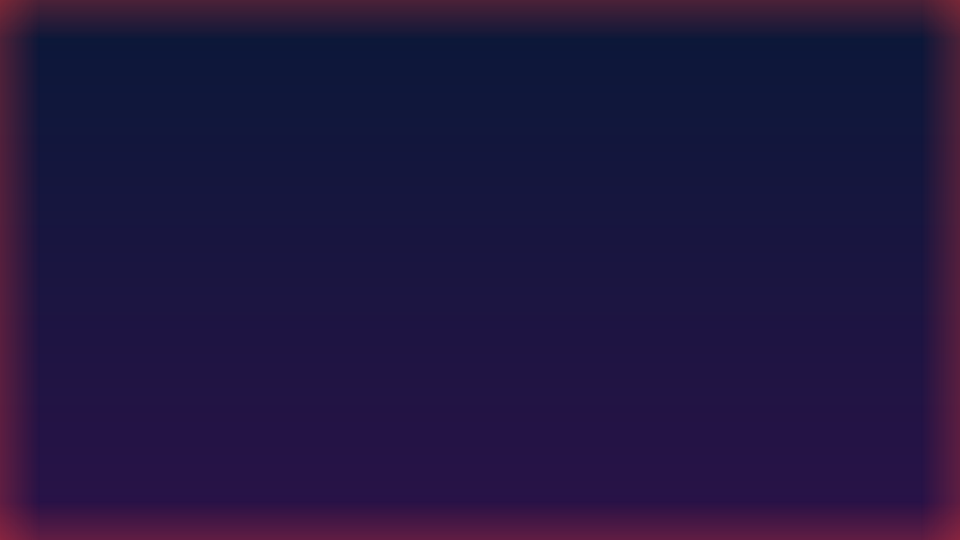
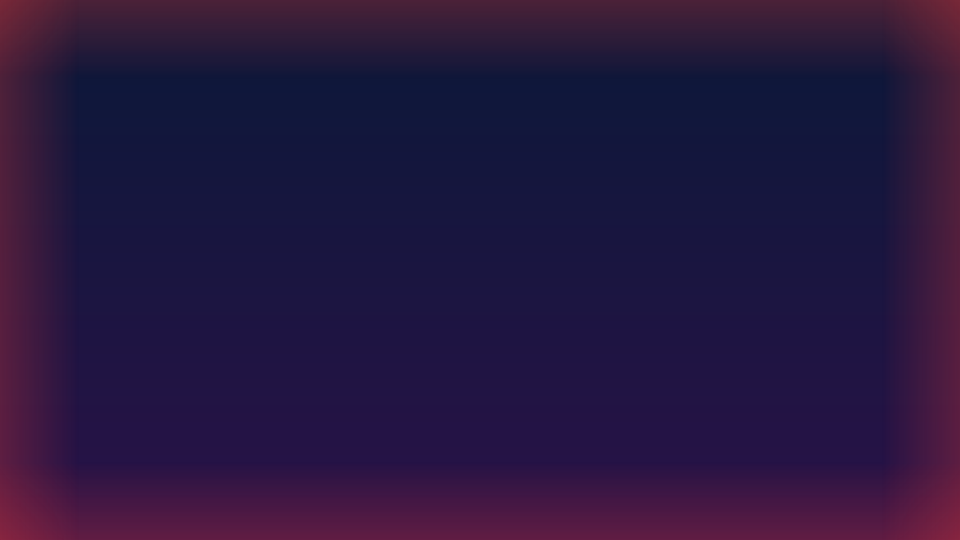
feat: 暂停态移除灰色边框并加倍默认最大边缘厚度
- 暂停态不再绘制灰色边缘光晕：EdgeOverlayPixelRenderer 对 Paused 状态返回 default（等同 Hidden），灰色弱视觉反而突兀，不如不画

- 默认最大边缘厚度 80px -> 160px：让强提醒（工作硬性 / 休息超时）视觉冲击更明显；Sanitize 范围 12~600 不变

- DemoRenderer 演示图默认 thickness 40 -> 80（保持实机一半比例）

- 同步更新 design.md / USER_GUIDE.md / CHANGELOG.md 描述

- 重新生成 960x540 演示图（thickness=80）

- 从 git 跟踪移除 README 不引用的 5 张图（上次遗漏）

Changed region(s): [[0.0, 0.0, 1.0, 1.0]]

diff --git a/ElasticBreath.DemoRenderer/Program.cs b/ElasticBreath.DemoRenderer/Program.cs
@@ -19,10 +19,10 @@ namespace ElasticBreath.DemoRenderer;
 internal static class Program
 {
     // 演示图尺寸：960x540（1920x1080 的 1/4 面积）。纯色合成壁纸无需原始大尺寸演示，
-    // 缩小后 README 加载更快、仓库体积更小，且光晕视觉比例与实机一致（thickness 同步减半）。
+    // 缩小后 README 加载更快、仓库体积更小。thickness 为实机默认（160）的一半，保持视觉比例。
     private const int Width = 960;
     private const int Height = 540;
-    private const int DefaultGlowThickness = 40;
+    private const int DefaultGlowThickness = 80;
     private const double BaseOpacity = 0.3;
 
     private static void Main(string[] args)
@@ -234,7 +234,7 @@ internal static class Program
         参数:
           --bg, --background <路径>   自定义背景图（jpg/png/bmp 等）。未指定时用合成渐变壁纸。
           --out, --output <目录>      输出目录。默认 docs/screenshots/。
-          --thickness, --thick <像素> 光晕渐变厚度（像素），默认 40。960x540 下与实机视觉比例一致。
+          --thickness, --thick <像素> 光晕渐变厚度（像素），默认 80。960x540 下为实机默认（160）的一半。
           -h, --help                  显示本帮助。
 
         示例:
@@ -247,8 +247,8 @@ internal static class Program
           # 指定输出目录
           dotnet run --project ElasticBreath.DemoRenderer -c Release -- --bg bg.jpg --out D:\out
 
-          # 复现 1920x1080 实机厚度（演示图默认 40 是按 960x540 比例减半）
-          dotnet run --project ElasticBreath.DemoRenderer -c Release -- --thickness 80
+          # 复现 1920x1080 实机厚度（演示图默认 80 是按 960x540 比例减半）
+          dotnet run --project ElasticBreath.DemoRenderer -c Release -- --thickness 160
 
         输出:
           state-<状态><后缀>.png          6 种状态截图（960x540）

diff --git a/ElasticBreath.Rendering/EdgeOverlayPixelRenderer.cs b/ElasticBreath.Rendering/EdgeOverlayPixelRenderer.cs
@@ -17,7 +17,7 @@ public enum EdgeOverlayState
     RestElastic,
     // 休息超时状态（亮绿 + 闪烁）
     RestOvertime,
-    // 暂停状态（灰色）
+    // 暂停状态（无视觉，等同隐藏：灰色边框反而显得突兀，不如不画）
     Paused
 }
 
@@ -55,7 +55,7 @@ public static class EdgeOverlayPixelRenderer
             EdgeOverlayState.RestBase => new EdgeOverlayVisual(67, 183, 108, 1.0, 3.0, false),
             EdgeOverlayState.RestElastic => new EdgeOverlayVisual(47, 206, 103, 1.1, 1.8, false),
             EdgeOverlayState.RestOvertime => new EdgeOverlayVisual(47, 206, 103, 1.1, 1.0, true),
-            EdgeOverlayState.Paused => new EdgeOverlayVisual(102, 102, 102, 0.75, 0.0, false),
+            EdgeOverlayState.Paused => default, // 暂停态不绘制边框，与 Hidden 一致
             _ => default
         };
     }

diff --git a/ElasticBreath.App/Domain/ElasticBreathSettings.cs b/ElasticBreath.App/Domain/ElasticBreathSettings.cs
@@ -88,8 +88,8 @@ public sealed class ElasticBreathSettings
     public bool EnableEdgeGlow { get; set; } = true;
     // 是否启用角落悬停功能，默认为true
     public bool EnableCornerHover { get; set; } = true;
-    // 发光最大厚度像素，默认80像素
-    public int GlowMaxThicknessPixels { get; set; } = 80;
+    // 发光最大厚度像素，默认160像素
+    public int GlowMaxThicknessPixels { get; set; } = 160;
     // 覆盖层不透明度，默认0.35
     public double OverlayOpacity { get; set; } = 0.35;
     // 全屏隐藏模式

diff --git a/USER_GUIDE.md b/USER_GUIDE.md
@@ -60,7 +60,7 @@ dotnet run --project ElasticBreath.App/ElasticBreath.App.csproj
 | **空闲 Idle** | 未进入工作周期 | 圆环静止，边缘无光晕；检测到你持续操作后会弹出“即将开始工作”通知 |
 | **工作 Working** | 工作计时进行中 | 圆环转动并随时间变色；超过阈值后边缘出现光晕 |
 | **休息 Resting** | 休息计时进行中 | 边缘变为清新绿色光晕；超时后绿色变亮并开始闪烁 |
-| **暂停 Paused** | 因离开检测中断 | 若之前有光晕，则冻结为暗灰色静止状态；检测到你回来会弹出恢复通知 |
+| **暂停 Paused** | 因离开检测中断 | 边缘无光晕（与空闲态一致）；检测到你回来会弹出恢复通知 |
 
 ### 压力等级
 
@@ -117,10 +117,9 @@ dotnet run --project ElasticBreath.App/ElasticBreath.App.csproj
 | **暗橙** | 工作预警区 | 该考虑休息了，弹性窗口已打开 |
 | **警示红** | 工作硬性区 | 强烈建议立即休息（仍不强制） |
 | **清新绿** | 休息中 | 正在恢复，安心休息 |
-| **暗灰** | 暂停态 | 已冻结，等待你回来 |
 | **顶部进度条** | 工作中（可选） | 10px 高细条，颜色随工作剩余时间从绿渐变红 |
 
-- **超时增长**：休息进入超时区后，绿色光晕的边缘渗透宽度会**逐步增长**，直到达到你设置的最大渗透宽度上限（默认 80px），防遮挡滚动条。
+- **超时增长**：休息进入超时区后，绿色光晕的边缘渗透宽度会**逐步增长**，直到达到你设置的最大渗透宽度上限（默认 160px）。
 - **呼吸节奏**：预警态约 3 秒一次缓慢呼吸；硬性态约 1 秒一次（不伴随刺耳声音，防癫痫）。
 - **可独立开关**：顶部进度条、边缘光晕、角落悬停均可单独开关。全部关闭后仅依赖主窗口感知状态。
 

diff --git a/design.md b/design.md
@@ -30,7 +30,7 @@
    └─(无操作空闲 ≥ 离开判定阈值) ─→ [暂停 Paused]
 [暂停 Paused]
    │
-   ├─(视觉表现) ─→ 若之前有边缘光晕，则冻结为暗灰色静止状态。
+   ├─(视觉表现) ─→ 无边缘光晕（与隐藏态一致）。
    │
    ├─(检测到输入) ─→ 弹出恢复提示通知（5秒倒计时）
    │   ├─(5秒内无处理) ─→ [专注计时 Working] (接续之前的时间)
@@ -66,11 +66,11 @@
 * **选项A：顶部细长进度条**
   * 屏幕顶部中央，10px高。颜色随工作剩余时间从绿渐变红。鼠标悬停显示具体时间。
 * **选项B：边缘呼吸光晕**
-  * 屏幕四周边缘向内渐变的光晕。最大渗透宽度不超过80像素（防遮挡滚动条）。
+  * 屏幕四周边缘向内渐变的光晕。最大渗透宽度不超过160像素。
   * **预警态**：暗橙缓慢过渡至亮橙，3秒一次呼吸明暗变化。
   * **硬性态**：警示红，1秒一次呼吸（防癫痫，不伴随刺耳声音）。
   * **休息态**：清新绿色。
-  * **暂停态**：暗灰色绝对静止。
+  * **暂停态**：无视觉表现。
 ### 5.3 交互方式（如何触发状态切换）
 * **方式一：主窗口按钮**（适用于多屏模式或将主窗口置于一侧时）。
 * **方式二：左上角悬停触发**（适用于单屏极简模式）。在存在光晕或进度条期间，鼠标移至屏幕左上角停留1.5秒，浮现半透明实心圆（圆心在左上角、用户可见右下角四分之一，半径最大20px，出现/收回带弹性），悬停期间由灰渐变为主题绿，变绿瞬间静默切入下一状态，无需点击；切换后圆保持绿色，移开鼠标后收回。仅左上角参与触发——右上角邻近关闭按钮、右下角为"显示桌面"热区、左下角可能是开始菜单。

diff --git a/CHANGELOG.md b/CHANGELOG.md
@@ -27,6 +27,8 @@
 ### Changed
 
 - 抽取边缘覆盖层像素渲染逻辑到独立项目 `ElasticBreath.Rendering`(`EdgeOverlayPixelRenderer`):主应用 Layered Window 与离线截图工具共用同一份渲染代码,保证实机与截图像素级一致;`EdgeOverlayWindow.xaml.cs` 改为委托调用,删除原内联的 `FillPixels`/`DrawProgressBar`/`BlendPixel`/`ResolveVisual`。
+- 暂停态移除灰色边缘光晕:`EdgeOverlayPixelRenderer.ResolveVisual` 对 `Paused` 状态改为返回 `default`(等同 `Hidden`),不再绘制灰色边框。灰色弱视觉反而显得突兀,暂停时保持无视觉干扰更自然。同步更新 design.md / USER_GUIDE.md 中暂停态视觉描述。
+- 默认最大边缘光晕厚度 80px → 160px:`ElasticBreathSettings.GlowMaxThicknessPixels` 默认值翻倍,让强提醒(工作硬性 / 休息超时)的视觉冲击更明显。Sanitize 范围(12~600)不变。同步更新 design.md / USER_GUIDE.md 中默认值描述,DemoRenderer 演示图默认 thickness 同步从 40 调整为 80(保持实机一半比例)。
 
 ### Fixed
 
